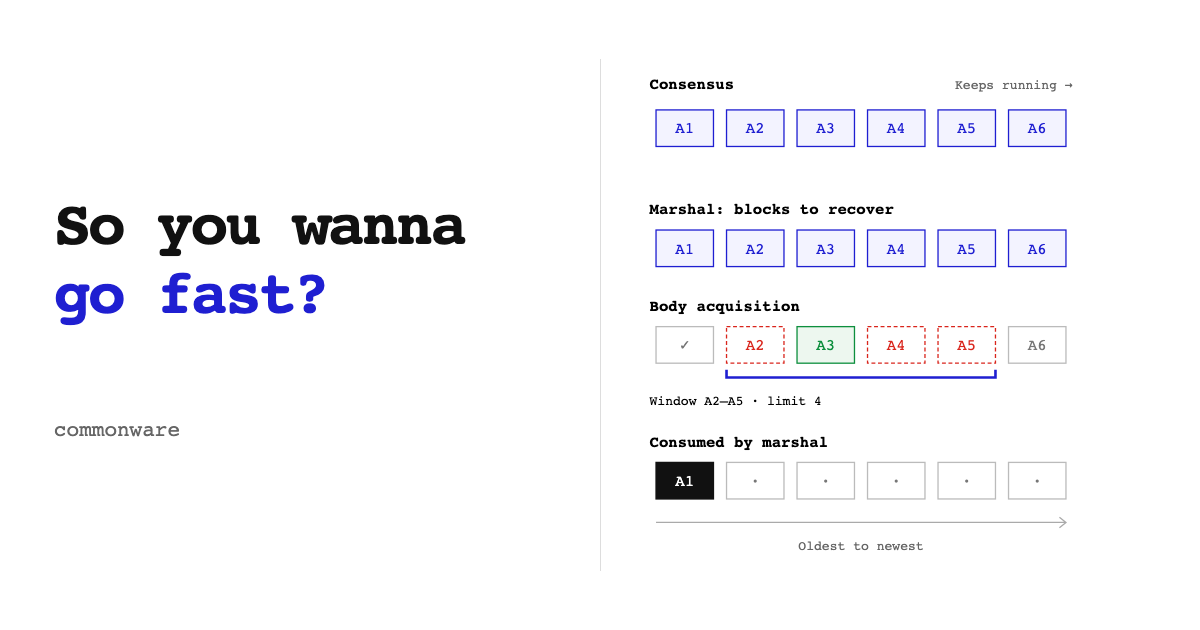
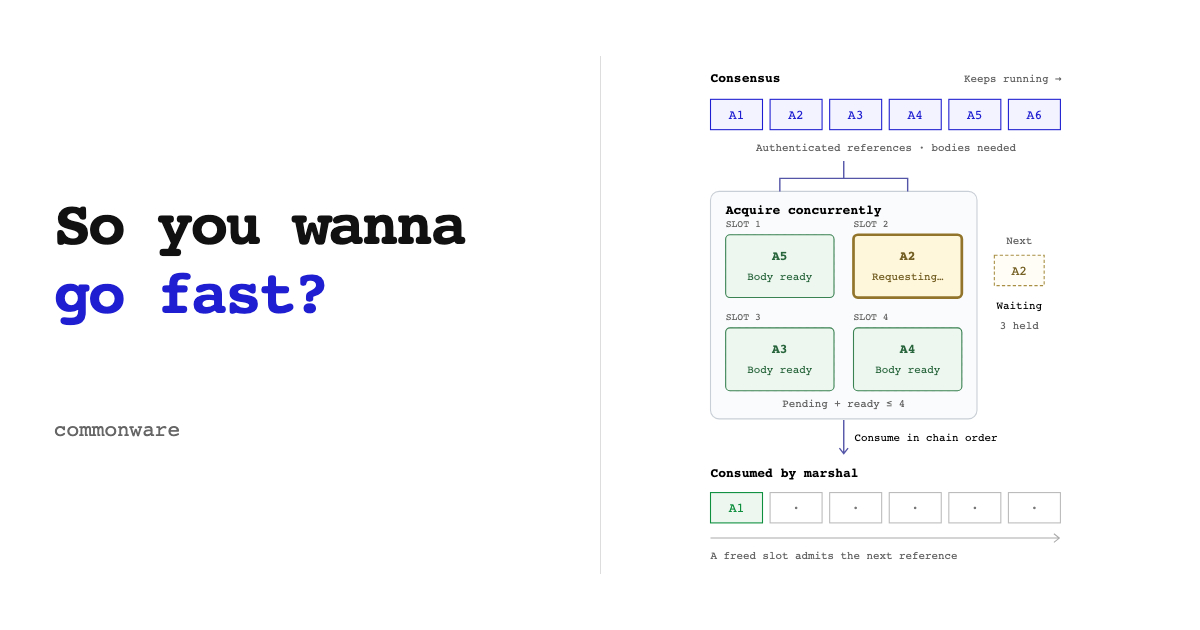
Clarify blocked work and body consumption in figures

Changed region(s): [[0.5242, 0.2714, 0.8942, 0.9048], [0.5242, 0.1206, 0.8942, 0.2413]]

diff --git a/docs/blogs/so-you-wanna-go-fast.js b/docs/blogs/so-you-wanna-go-fast.js
@@ -194,8 +194,9 @@
     draw(group, 'rect', { width, height, rx: 4 });
     const name = label(group, width / 2, 23, '', { 'text-anchor': 'middle', 'font-weight': 'bold' });
     const status = label(group, width / 2, 42, '', { 'text-anchor': 'middle', class: 'log-small' });
-    return (x, y, state, identity, detail, visible = true) => {
-      group.style.transform = `translate(${x}px, ${y}px)`;
+    return (x, y, state, identity, detail, visible = true, scale = 1) => {
+      group.style.transform = `translate(${x}px, ${y}px) scale(${scale})`;
+      group.dataset.departing = scale < 1;
       group.style.opacity = visible ? 1 : 0;
       group.dataset.state = state;
       name.textContent = identity;
@@ -228,8 +229,7 @@
     label(svg, 18, 389, 'Consumed by marshal', { 'font-weight': 'bold' });
     const output = names.map((name, i) => cell(svg, 18 + i * 55, 403, 48, name));
     draw(svg, 'path', { d: 'M18 445 H340 m-5 -4 l5 4 l-5 4', class: 'log-wire' });
-    label(svg, 180, 464, 'Fixed order · A1 → A2 → A3 → A4 → A5 → A6', { 'text-anchor': 'middle', class: 'log-small log-muted' });
-    const refill = label(svg, 18, 487, 'A freed slot admits the next reference', { class: 'log-small log-muted' });
+    const refill = label(svg, 18, 464, 'A freed slot admits the next reference', { class: 'log-small log-muted' });
     const cards = names.map(() => spatialCard(svg, 100, 58));
     const arrival = [4, 8, 3, 6, 7, 10];
     const consumption = [5, 9, 11, 12, 13, 14];
@@ -252,9 +252,10 @@
       'Consensus kept running. Marshal used at most four slots, refilling them as it consumed bodies.',
     ];
     return {
-      height: 502, steps: captions.length,
+      height: 479, steps: captions.length,
       render(step) {
         const prefix = consumption.filter(at => step >= at).length;
+        const waiting = arrival.filter((at, i) => i > prefix && step >= at && step < consumption[i]).length;
         live.textContent = step ? 'Keeps running →' : 'Selected references';
         feed.style.opacity = step >= 1 ? 1 : 0.2;
         cards.forEach((set, i) => {
@@ -262,11 +263,11 @@
           const done = step >= consumption[i];
           const ready = step >= arrival[i];
           const [x, y] = slotPositions[i % 4];
-          set(x, done ? 382 : requested ? y : y - 14, ready ? 'ready' : 'pending', names[i], ready ? 'Body ready' : 'Requesting…', requested && !done);
+          const blocked = requested && !ready && i === prefix && waiting > 0;
+          set(done ? 18 + i * 55 : x, done ? 403 : requested ? y : y - 14, blocked ? 'blocked' : ready ? 'ready' : 'pending', names[i], ready ? 'Body ready' : 'Requesting…', requested && !done, done ? 0.48 : 1);
         });
         next(step < 2 ? 'produced' : prefix === 6 ? 'ready' : step >= arrival[prefix] ? 'ready' : 'pending', prefix === 6 ? '✓' : names[prefix]);
         gate.textContent = step < 2 ? 'Not started' : prefix === 6 ? 'Done' : step >= arrival[prefix] ? 'Ready' : 'Waiting';
-        const waiting = arrival.filter((at, i) => i > prefix && step >= at && step < consumption[i]).length;
         held.textContent = step < 2 ? '' : prefix === 6 ? '6 consumed' : waiting && step < arrival[prefix] ? `${waiting} held` : 'in order';
         output.forEach((set, i) => set(i < prefix ? 'ready' : 'empty', i < prefix ? names[i] : '·'));
         refill.textContent = step === 5 ? 'Slot 1 refills: A1 leaves → request A5' : step === 9 ? 'Slot 2 refills: A2 leaves → request A6' : 'A freed slot admits the next reference';
@@ -330,7 +331,7 @@
         bodyCards.forEach((set, i) => {
           const done = step >= 9 + i;
           const ready = step >= (i ? 7 : 8);
-          set(48 + i * 160, done ? 448 : 351, ready ? 'ready' : step >= 6 ? 'pending' : 'empty', `A${i + 3}`, ready ? 'Body ready' : step >= 6 ? 'Requesting…' : 'Body needed', !done);
+          set(done ? 104 + i * 100 : 48 + i * 160, done ? 455 : 351, ready ? 'ready' : step >= 6 ? 'pending' : 'empty', `A${i + 3}`, ready ? 'Body ready' : step >= 6 ? 'Requesting…' : 'Body needed', !done, done ? 0.5 : 1);
         });
         bodyNote.textContent = step < 6 ? 'Header repair comes first' : step === 6 ? 'Two concurrent requests · window limit 4' : step === 7 ? 'A4 waits behind missing A3' : step === 8 ? 'Gap closed · ready to consume' : step === 9 ? 'A3 consumed · A4 is next' : 'Both bodies consumed';
         consumed.forEach((set, i) => set(step >= 9 + i ? 'ready' : 'empty', step >= 9 + i ? `A${i + 3}` : '·'));

diff --git a/docs/blogs/so-you-wanna-go-fast.css b/docs/blogs/so-you-wanna-go-fast.css
@@ -177,10 +177,13 @@
 .log-spatial .log-space-tiny { font-size: 9px; }
 .log-spatial .log-space-feed { fill: none; stroke: #5555a8; stroke-width: 1.3; transition: opacity 280ms ease; }
 .log-spatial .log-space-card { transition: transform 320ms ease, opacity 220ms ease; }
+.log-spatial .log-space-card[data-departing="true"] { transition: transform 320ms ease, opacity 100ms ease 240ms; }
 .log-spatial .log-space-card rect { fill: #fff; stroke: #c6cbd0; transition: fill 220ms ease, stroke 220ms ease; }
 .log-spatial .log-space-card text { fill: #6b7077; }
 .log-spatial .log-space-card[data-state="known"] rect { fill: #f3f3ff; stroke: #5555a8; }
 .log-spatial .log-space-card[data-state="known"] text { fill: #39398c; }
+.log-spatial .log-space-card[data-state="blocked"] rect { fill: #fff7dc; stroke: #92752b; stroke-width: 2.5; }
+.log-spatial .log-space-card[data-state="blocked"] text { fill: #756126; }
 .log-spatial .log-space-card[data-state="pending"] rect { fill: #fffdf5; stroke: #a78e43; stroke-dasharray: 4 3; }
 .log-spatial .log-space-card[data-state="pending"] text { fill: #756126; }
 .log-spatial .log-space-card[data-state="ready"] rect { fill: #edf7ef; stroke: #3a8252; }
@@ -192,6 +195,7 @@
 .log-spatial .log-space-link[data-state="ready"] { stroke: #3a8252; }
 @media (prefers-reduced-motion: reduce) {
   .log-spatial .log-space-card,
+  .log-spatial .log-space-card[data-departing="true"],
   .log-spatial .log-space-card rect,
   .log-spatial .log-space-feed,
   .log-spatial .log-space-link { transition: none; }
